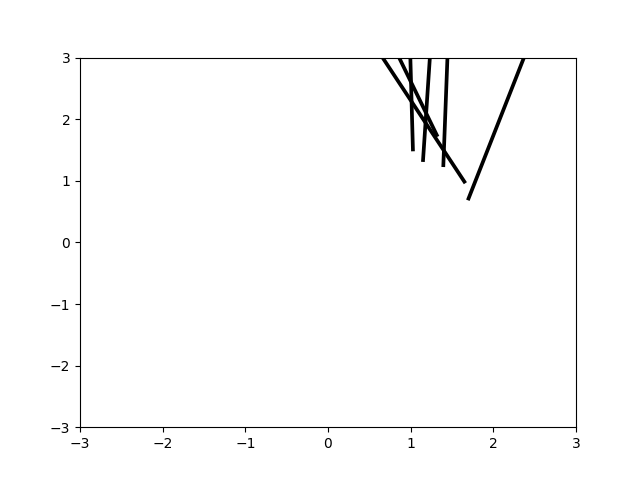
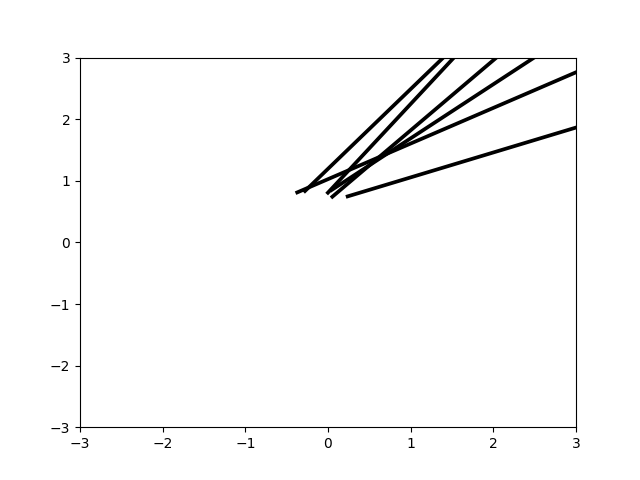
Attempt 3 at rays, U and V switched

Changed region(s): [[0.4688, 0.125, 0.9062, 0.4375], [0.8438, 0.125, 0.9062, 0.1875]]

diff --git a/word2blank/ongoing/word2vec-symplectic/visualizer/visualizer.py b/word2blank/ongoing/word2vec-symplectic/visualizer/visualizer.py
@@ -5,9 +5,6 @@ import gensim
 from tqdm import tqdm
 
 def load_embedding(fpath, x):
-    """
-        Using Gensim to load FastText embeddings
-    """
     print("Loading embeddings...")
     emb = dict()
     wv_from_bin = KeyedVectors.load_word2vec_format(fpath, binary=x, limit=1000000)
@@ -25,7 +22,7 @@ def get_embs(emb, wordlist):
     return mat
 
 def plot(mat):
-    X, Y, U, V = zip(*mat)
+    U, V, X, Y = zip(*mat)
     plt.figure()
     ax = plt.gca()
     ax.quiver(X, Y, U, V, angles='xy', scale_units='xy', scale=0.1)
@@ -33,10 +30,10 @@ def plot(mat):
     ax.set_ylim([-3, 3])
     plt.draw()
     plt.show()
-    plt.savefig('rays-syn1neg.png')
+    plt.savefig('rays.png')
 
 if __name__ == '__main__':
-    emb = load_embedding('posvel_models/syn1neg-symp-size4-text8.bin', True)
+    emb = load_embedding('posvel_models/symp-size4-text8.bin', True)
     wordlist = ['good', 'better', 'best', 'bad', 'worse', 'worst']
     mat = get_embs(emb, wordlist)
     print(mat)
